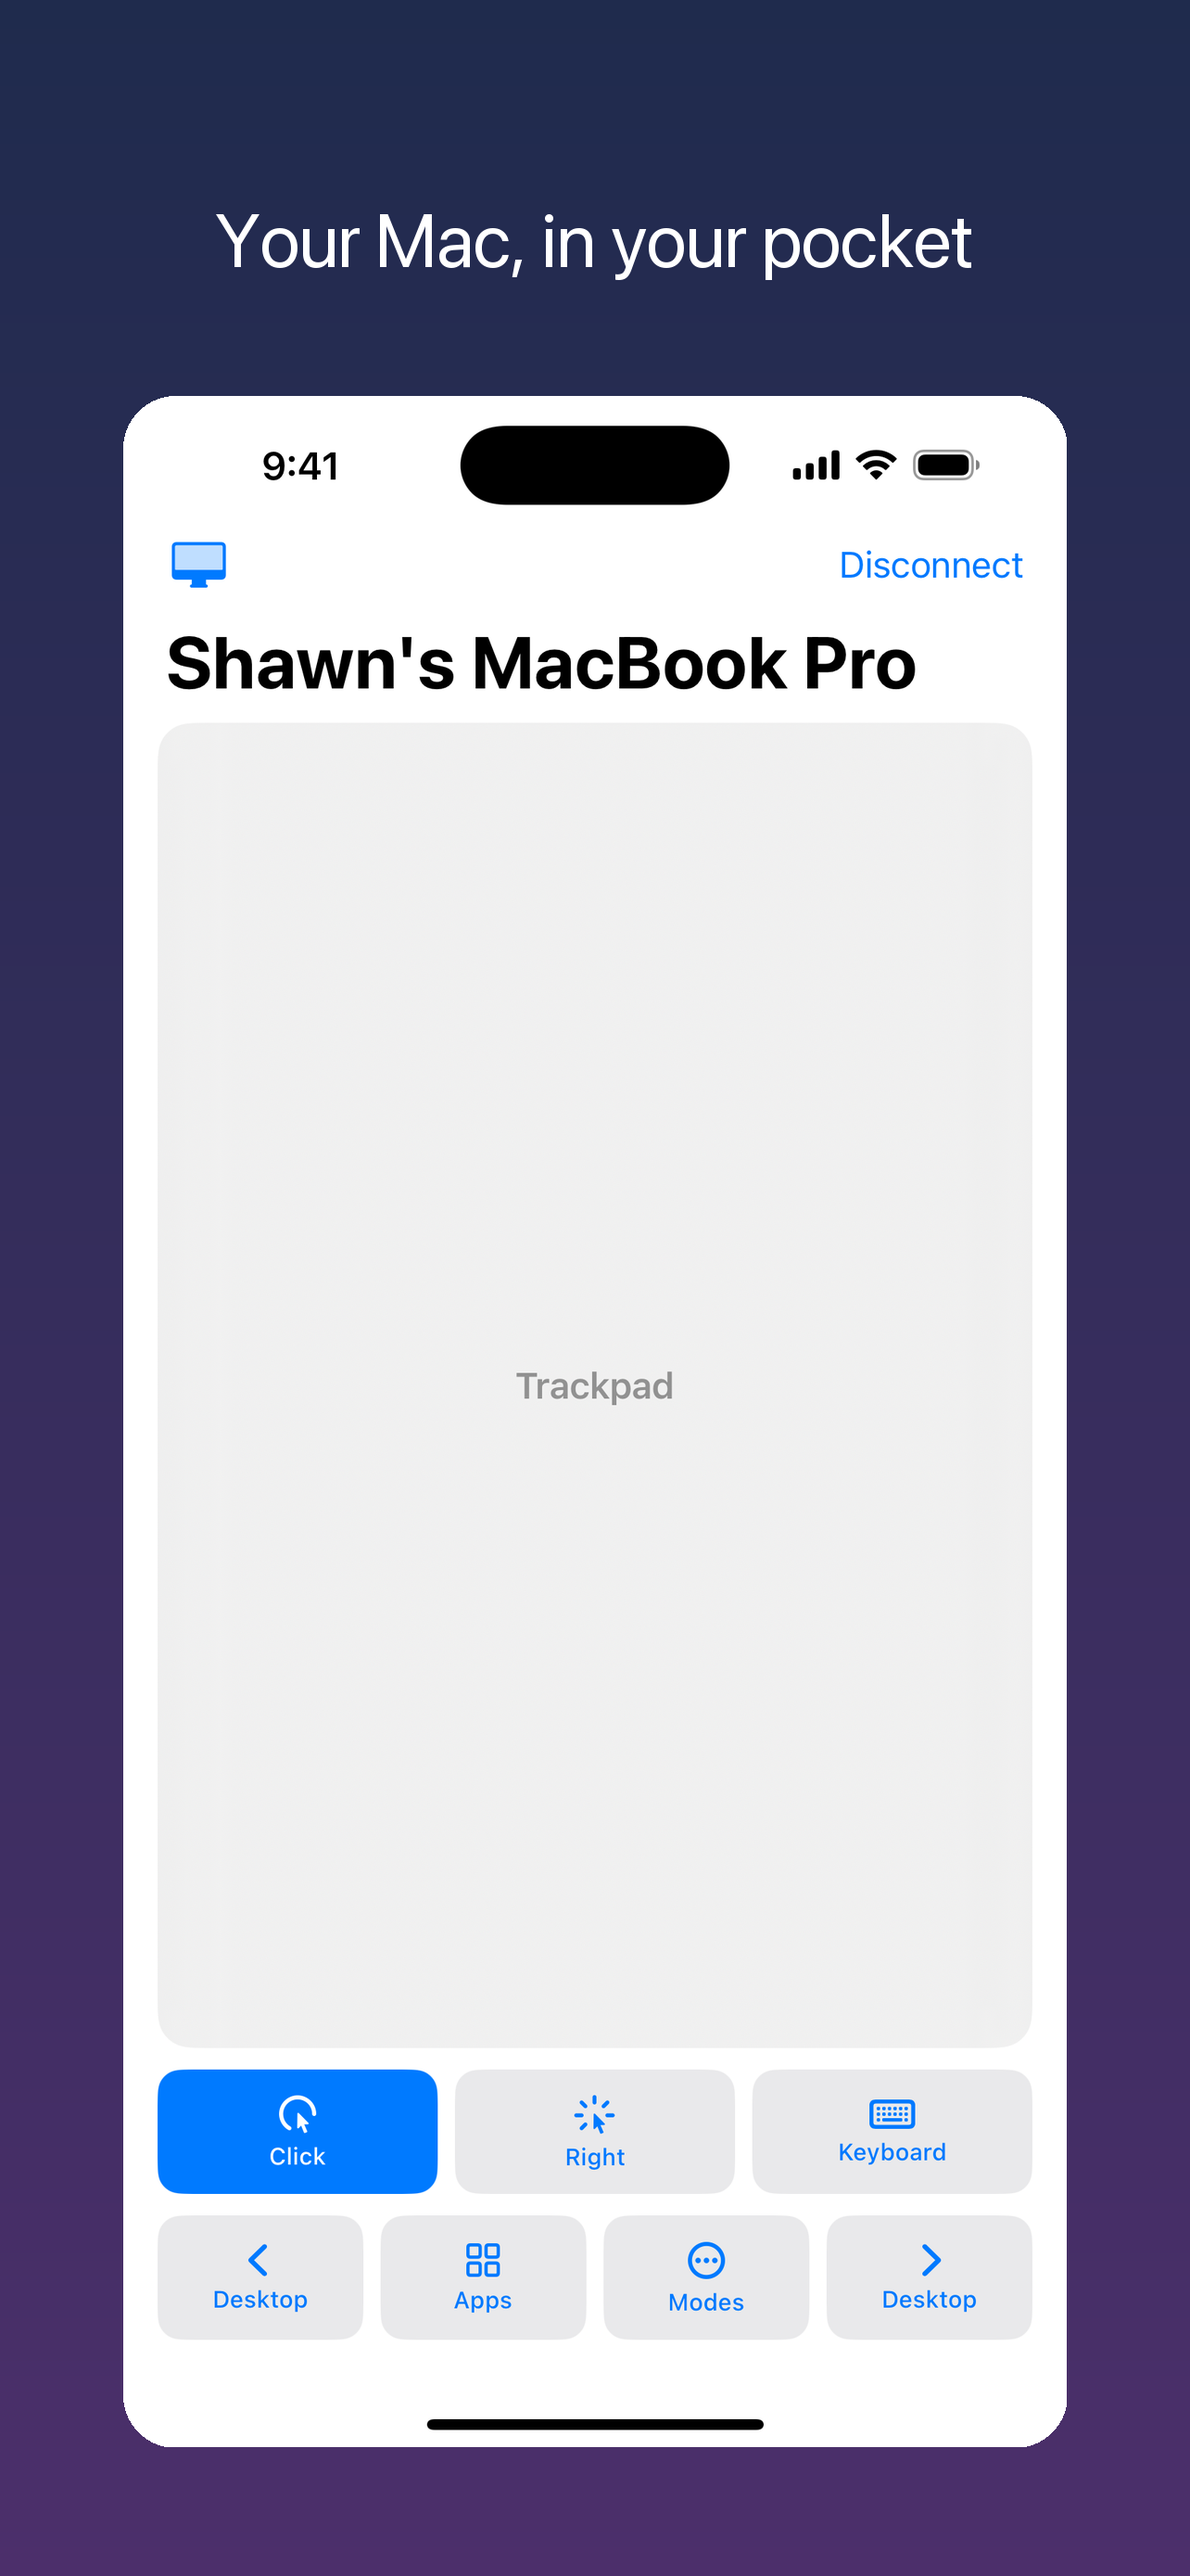
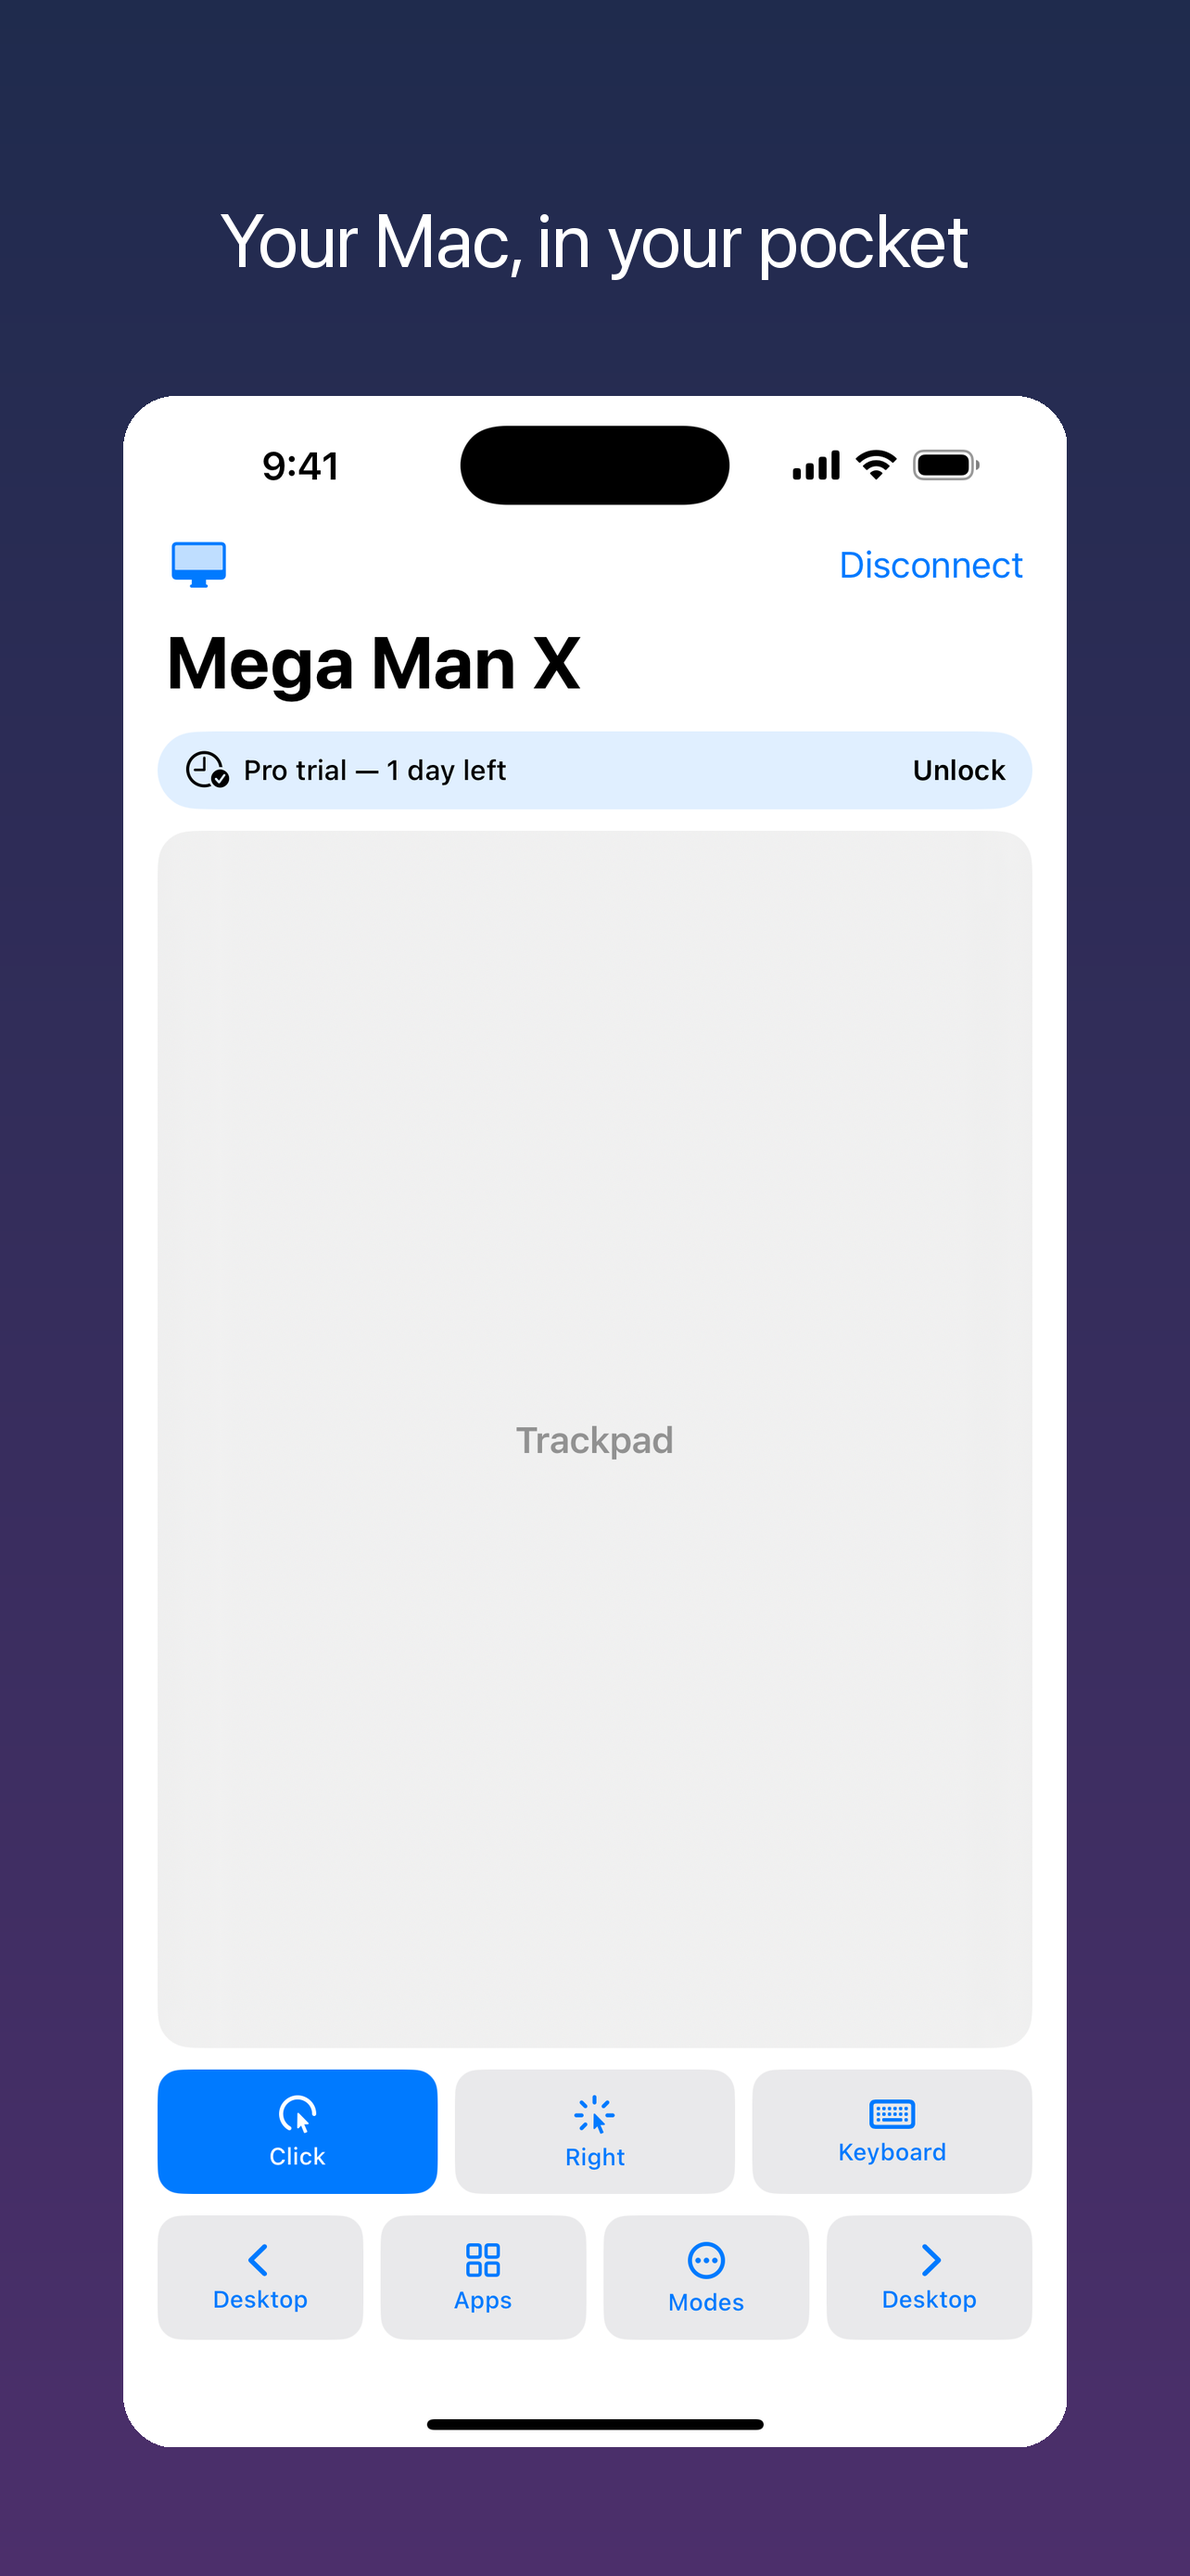
Preserve private-data-free store captures and record review blockers

diff --git a/docs/APPSTORE.md b/docs/APPSTORE.md
@@ -7,8 +7,30 @@ Copy/paste the metadata blocks straight into ASC.
 
 ## 0. Where this stands
 
-Updated 2026-09-22. Done is done; everything under "Left to do" needs a Mac,
-an Apple ID, or a device, which is why it is still here.
+Updated 2026-09-29. Version 1.0/build 1 and Wield Pro pass App Store Connect's
+READY_FOR_REVIEW validation in draft submission
+`5aec15b9-ef30-4636-9906-3359d7305944`. **Not submitted.** Manual release is selected.
+
+The free app price, $9.99 Pro price, age rating, content rights, listing, reviewer
+notes, and selected build are saved. All three public URLs returned HTTP 200.
+The listing now reflects the shipped host's actual macOS 26.1 minimum and the
+correct free/Pro feature split. There is no attached demo video.
+
+Clean real-connection Trackpad and Live Screen images have been framed, visually
+checked, and uploaded to the 6.5-inch set. An iPad trackpad image is uploaded too.
+The previous trackpad screenshot was removed. Media and Desktops remain unfinished;
+do not represent their screenshot set as complete.
+
+Wield Host 1.0.1 cannot return Now Playing metadata in the installed signed build:
+its sandbox/hardened-runtime signature lacks Music/Spotify automation access.
+Sampling also found AppleScript waiting to resolve an application name while
+compiling the media query. A review-only patch is saved in
+`wield-host-media-fix-proposed.patch`; it has NOT been applied. Automatic approval
+review requires explicit owner approval for the Music/Spotify access changes.
+
+Before final submission, finish and visually review the remaining captures, confirm
+real-iPhone sandbox purchase/Restore and input-release tests, and resolve the host
+media defect. Do not mark hardware testing complete based on simulator captures.
 
 ### Done
 
@@ -33,19 +55,14 @@ an Apple ID, or a device, which is why it is still here.
 
 ### Left to do, in order
 
-1. **Finish the IAP** — Availability (all countries), price (USD 9.99),
-   English (U.S.) localisation, review screenshot — then attach it to version
-   1.0. The banner in ASC about a first non-consumable shipping with a version
-   is telling you it goes up with this submission.
-2. **Screenshots.** Run the workflow for what it can capture; Hand Mouse and
-   Gesture Studio need a real device because the Simulator has no camera.
-3. **Sandbox-test purchase and Restore** — Debug build, Settings → Developer →
-   Simulate Free, sandbox Apple Account signed in under Settings → Developer.
-4. **Fill the version page** from §1–§6 below.
-5. **Test on hardware.** `docs/QA.md`, and the wedging checks in particular:
-   these releases changed input injection, and a missed key-up latches the
-   user's *physical* keyboard until reboot.
-6. **Turn Simulate Free off**, Archive for Release, upload, submit.
+1. Obtain explicit approval for the proposed Music/Spotify access fix; apply it,
+   verify CI, sign/notarize the companion, and verify actual Now Playing behavior.
+2. Capture and inspect `04-desktops.png` and `06-media.png`, frame them, and upload.
+   Final 6.5-inch order: Live Screen, Desktops, Media, Trackpad.
+3. Confirm the owner's real-device purchase, Restore, Hand Mouse, and input-release
+   checks. Hand Mouse and Gesture Studio screenshots remain owner-supplied.
+4. Submit the existing review draft only when those blockers are resolved; preserve
+   manual release. Verify Apple's returned review status rather than assuming success.
 
 ---
 
@@ -126,10 +143,10 @@ WAKE YOUR MAC
 Wake a sleeping Mac from the app, and connect by address when you're on a VPN.
 
 FREE + PRO
-The trackpad, keyboard, and media controls are free forever. Wield Pro unlocks Live Screen, Hand Mouse, Gesture Studio, and the desktop switcher with a one-time purchase — no subscription. Every new install starts with a 7-day free trial of everything.
+The trackpad and keyboard are free forever. Wield Pro unlocks Air Mouse, Live Screen, Hand Mouse, Gesture Studio, Media Remote, the desktop switcher, and multi-Mac switching with a one-time purchase — no subscription. Every new install starts with a 7-day free trial of everything.
 
 REQUIREMENTS
-Wield needs the free Wield Host companion app running on your Mac (macOS 13 or later), and both devices on the same network. Download it at: https://shawn8989.github.io/AirBridge-mac/
+Wield needs the free Wield Host companion app running on your Mac (macOS 26.1 or later), and both devices on the same network. Download it at: https://shawn8989.github.io/AirBridge-mac/
 ```
 
 ### Keywords (100 char max, comma separated, no spaces)
@@ -182,7 +199,7 @@ is fine) and must be attached to the app version before submitting.
 IMPORTANT — Wield is a remote control for a Mac and requires its free companion app to function.
 
 To test:
-1. On a Mac (macOS 13 or later), download and open Wield Host:
+1. On a Mac (macOS 26.1 or later), download and open Wield Host:
    https://shawn8989.github.io/AirBridge-mac/
    It is free, requires no account, and is signed and notarized by us.
 2. On first launch Wield Host asks for two macOS permissions — Accessibility and
@@ -196,11 +213,12 @@ To test:
 5. The trackpad now controls the Mac's cursor.
 
 Without a Mac running Wield Host, the app will show "Looking for your Mac" and no
-features can be exercised. We have included a demo video showing the full flow.
+features can be exercised.
 
 IN-APP PURCHASE
 Wield Pro (com.airpad.pro.lifetime) is a one-time non-consumable unlock for
-Live Screen, Hand Mouse, Gesture Studio, and the desktop switcher. Every new
+Air Mouse, Live Screen, Hand Mouse, Gesture Studio, Media Remote, the desktop
+switcher, and multi-Mac switching. Every new
 install begins with an automatic 7-day free trial of these features, so all Pro
 functionality is testable without purchasing. There is no account system: the
 purchase is tied to the Apple ID, and "Restore Purchases" is on the paywall

diff --git a/docs/FILL-IN.md b/docs/FILL-IN.md
@@ -10,11 +10,15 @@ App: **Wield: Mac Remote & Trackpad** · Apple ID 6804338937 · `com.SOTechy.Air
 ## Version page (iOS App → 1.0 Prepare for Submission)
 
 ### Screenshots → iPhone → 6.5" Display
-Upload from `docs/screenshots/framed/`:
-- `01-trackpad-6.5-1284x2778.png`
+Final order from `docs/screenshots/framed/`:
+- `02-livescreen-6.5-1284x2778.png` — uploaded, visually checked
+- `04-desktops-6.5-1284x2778.png` — still to capture
+- `06-media-6.5-1284x2778.png` — blocked on host Now Playing fix
+- `01-trackpad-6.5-1284x2778.png` — uploaded, visually checked
 
-(Minimum is one. Live Screen and Hand Mouse need a real device — add later;
-screenshots can be changed while the version is in Prepare for Submission.)
+The iPad set contains the clean real-connection `docs/screenshots/ipad/01-trackpad.png`.
+See `APPSTORE.md` for the current submission blockers. Do not submit an incomplete
+screenshot set or mark real-device checks complete without hardware evidence.
 
 ### Promotional Text
 ```
@@ -55,10 +59,10 @@ WAKE YOUR MAC
 Wake a sleeping Mac from the app, and connect by address when you're on a VPN.
 
 FREE + PRO
-The trackpad, keyboard, and media controls are free forever. Wield Pro unlocks Live Screen, Hand Mouse, Gesture Studio, and the desktop switcher with a one-time purchase — no subscription. Every new install starts with a 7-day free trial of everything.
+The trackpad and keyboard are free forever. Wield Pro unlocks Air Mouse, Live Screen, Hand Mouse, Gesture Studio, Media Remote, the desktop switcher, and multi-Mac switching with a one-time purchase — no subscription. Every new install starts with a 7-day free trial of everything.
 
 REQUIREMENTS
-Wield needs the free Wield Host companion app running on your Mac (macOS 13 or later), and both devices on the same network. Download it at: https://shawn8989.github.io/AirBridge-mac/
+Wield needs the free Wield Host companion app running on your Mac (macOS 26.1 or later), and both devices on the same network. Download it at: https://shawn8989.github.io/AirBridge-mac/
 ```
 
 ### Keywords
@@ -99,7 +103,7 @@ failed — check the Mac session's output.
 IMPORTANT — Wield is a remote control for a Mac and requires its free companion app to function.
 
 To test:
-1. On a Mac (macOS 13 or later), download and open Wield Host:
+1. On a Mac (macOS 26.1 or later), download and open Wield Host:
    https://shawn8989.github.io/AirBridge-mac/
    It is free, requires no account, and is signed and notarized by us.
 2. On first launch Wield Host asks for two macOS permissions — Accessibility and
@@ -113,11 +117,12 @@ To test:
 5. The trackpad now controls the Mac's cursor.
 
 Without a Mac running Wield Host, the app will show "Looking for your Mac" and no
-features can be exercised. We have included a demo video showing the full flow.
+features can be exercised.
 
 IN-APP PURCHASE
 Wield Pro (com.airpad.pro.lifetime) is a one-time non-consumable unlock for
-Live Screen, Hand Mouse, Gesture Studio, and the desktop switcher. Every new
+Air Mouse, Live Screen, Hand Mouse, Gesture Studio, Media Remote, the desktop
+switcher, and multi-Mac switching. Every new
 install begins with an automatic 7-day free trial of these features, so all Pro
 functionality is testable without purchasing. There is no account system: the
 purchase is tied to the Apple ID, and "Restore Purchases" is on the paywall
